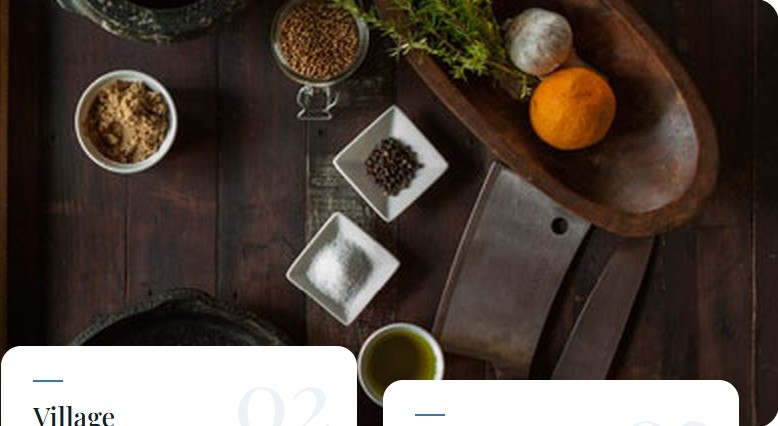
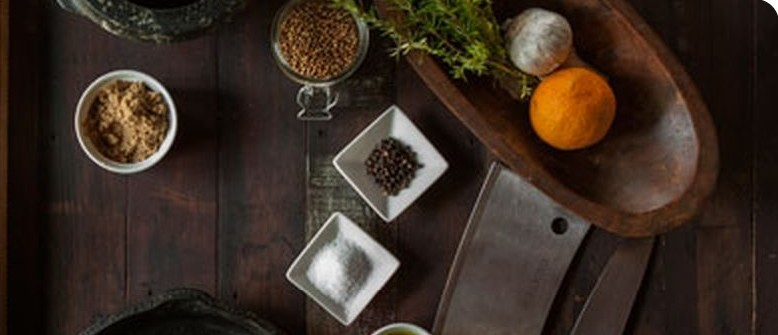
Use photos of people on the sign in screens and trim the table photo

diff --git a/app/reset-password/page.tsx b/app/reset-password/page.tsx
@@ -10,8 +10,8 @@ export default function ResetPasswordPage() {
     <FlowPage
       title="Reset your password"
       lead="Only if you set one. Most members sign in with a link instead, which needs no password at all."
-      photo={PHOTO.table}
-      photoAlt="Members around a table at a Village dinner"
+      photo={PHOTO.nadia}
+      photoAlt="A member at work in her cafe"
     >
       <ResetForm />
       <div className="d-aside-note">

diff --git a/app/upgrade/done/page.tsx b/app/upgrade/done/page.tsx
@@ -14,7 +14,8 @@ export default async function UpgradeDonePage({
 
   return (
     <FlowPage
-      photo={cancelled ? PHOTO.table : PHOTO.members}
+      photo={cancelled ? PHOTO.nadia : PHOTO.members}
+      photoAlt={cancelled ? "A member at work in her cafe" : "Members of a Village working together"}
       card={cancelled ? undefined : { title: "Every Village is open", line: "Members, events and introductions" }}
     >
       <Done

diff --git a/app/re-enrol/done/page.tsx b/app/re-enrol/done/page.tsx
@@ -6,7 +6,7 @@ export const metadata = { title: "Thank you, ExpatPreneurs Global" };
 
 export default function ReEnrolDeclinedPage() {
   return (
-    <FlowPage photo={PHOTO.table} photoAlt="Members around a table at a Village dinner">
+    <FlowPage photo={PHOTO.members}>
       <Done
         title="Thank you for being part of it"
         actions={[{ label: "Back to home", href: "/", kind: "primary" }]}

diff --git a/app/reset-password/sent/page.tsx b/app/reset-password/sent/page.tsx
@@ -6,7 +6,7 @@ export const metadata = { title: "Check your email, ExpatPreneurs Global" };
 
 export default function ResetSentPage() {
   return (
-    <FlowPage photo={PHOTO.table} photoAlt="Members around a table at a Village dinner">
+    <FlowPage photo={PHOTO.nadia} photoAlt="A member at work in her cafe">
       <Done
         title="Check your email"
         icon="mail"

diff --git a/app/suggestions/sent/page.tsx b/app/suggestions/sent/page.tsx
@@ -12,7 +12,7 @@ export default async function SuggestionSentPage({
   const { how } = await searchParams;
 
   return (
-    <FlowPage photo={PHOTO.table} photoAlt="Members around a table at a Village dinner">
+    <FlowPage photo={PHOTO.members}>
           <Done
             title="Thank you"
             actions={[
